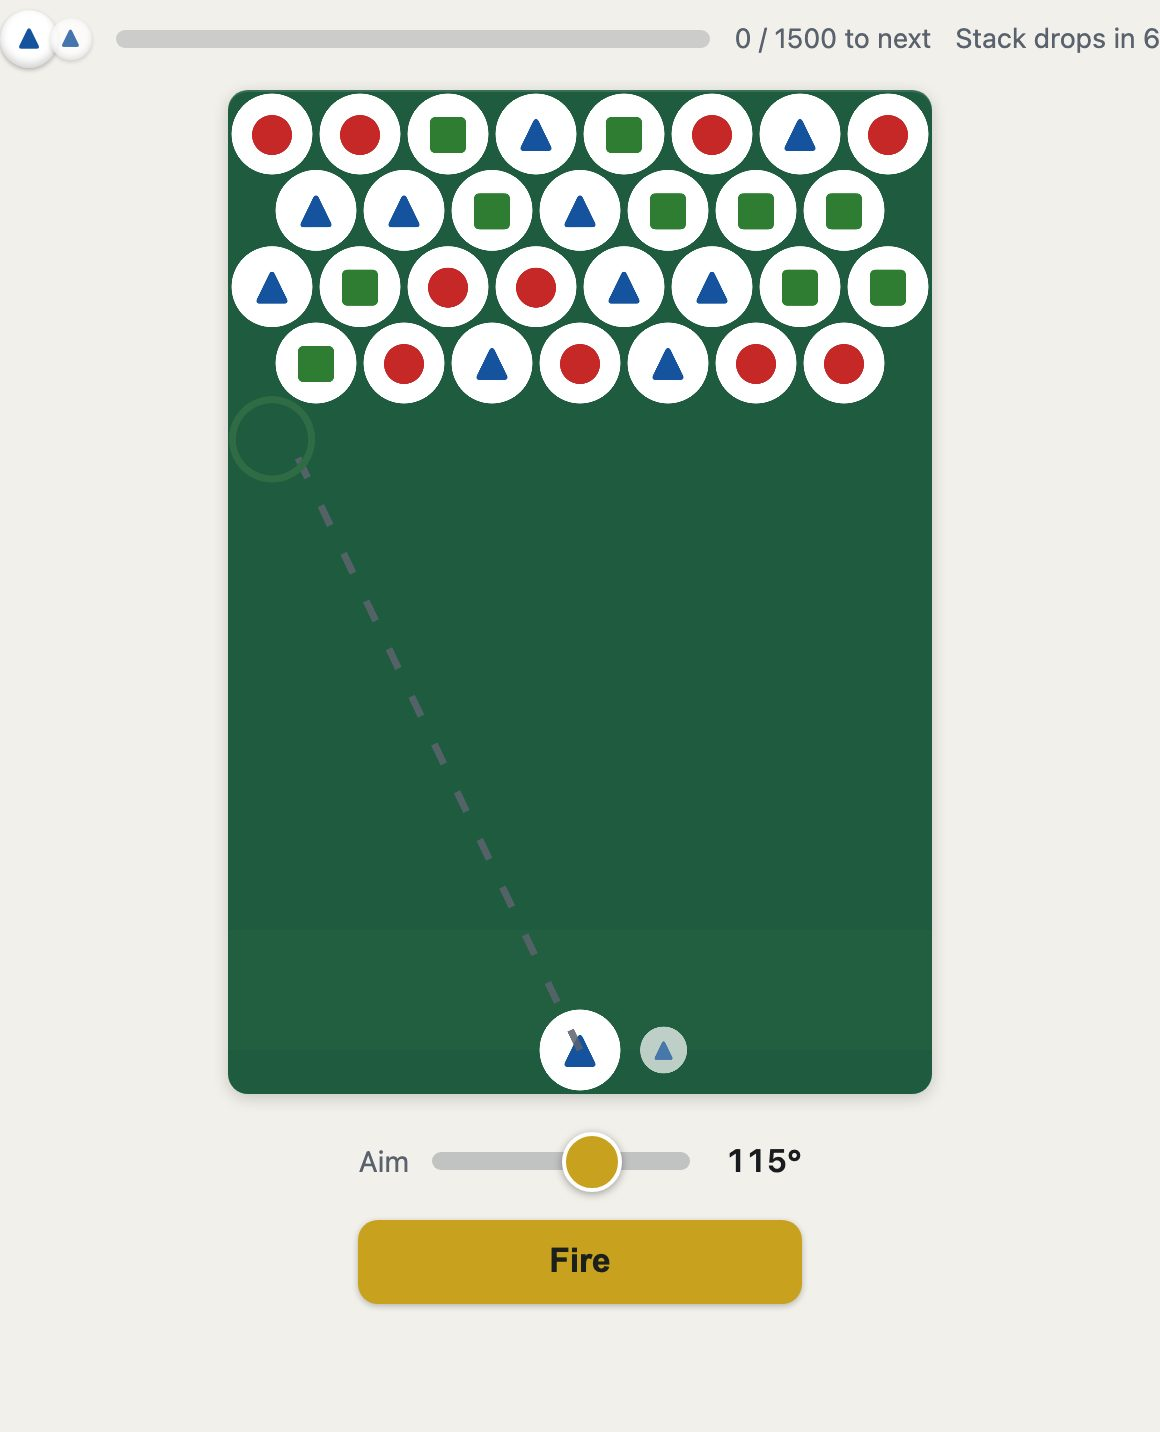
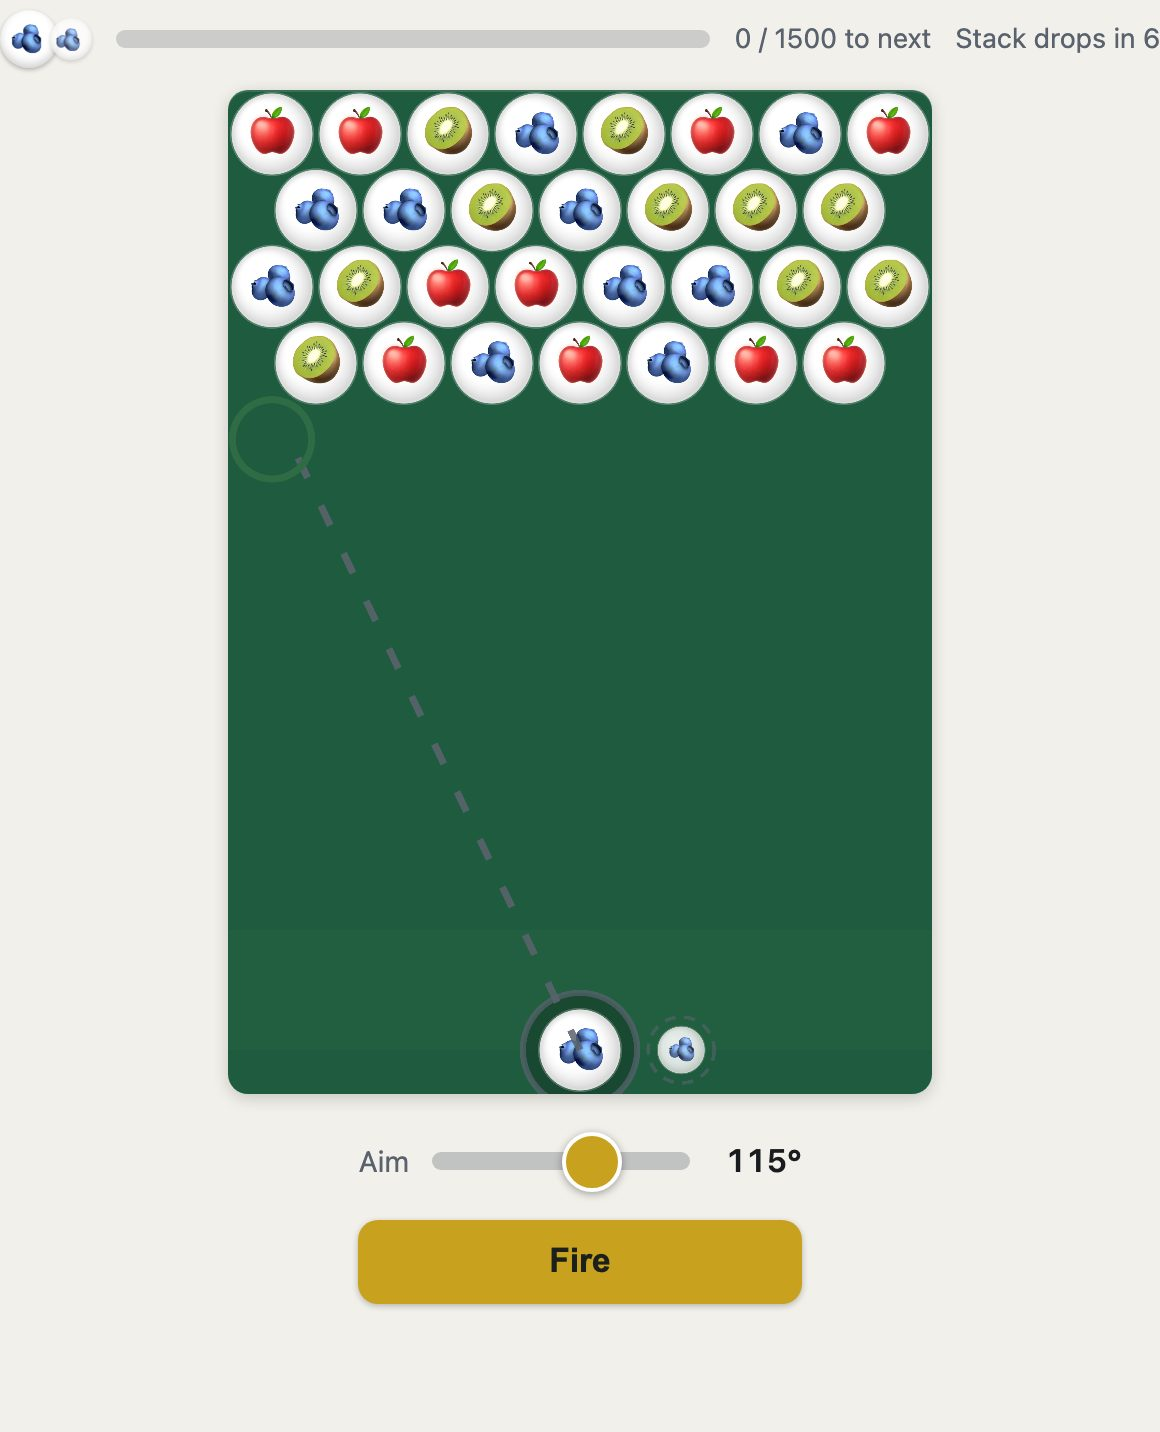
bubble: the pieces are fruit — six emoji in glass bubbles, a launcher ring, an on-deck ring (mock F phase 10a)
Owner, 2026-09-05 (mock F Q7): the fruit set. src/games/bubble/bubble-pieces.ts is the
table — apple, blueberries, kiwi, grapes, orange, lemon in the palette's colour order — and
a fruit carries its own shape as well as its own colour, so the colour-blind pairing the
old glyphs gave survives in the piece itself. The canvas draws a glass bubble (tint, rim,
highlight) with the fruit inside, a ring under the loaded piece and a dashed ring around
the on-deck one; the HUD chips show the fruit and name it for a screen reader; the how-to
names the fruit and its board shot is regenerated. No core change: colours are indices.

tests/bubble-pieces.test.ts holds the table as data; tests/bubble.spec.ts's wiring test
asserts the launcher names a fruit. Both engines green.

Claude-Session: https://claude.ai/code/session_01TWKEm65NEjxkHoS1WJuz2b

Changed region(s): [[0.1862, 0.0615, 0.8069, 0.3073], [0.4345, 0.676, 0.6207, 0.7682], [0.0, 0.0, 0.0621, 0.0307]]

diff --git a/src/games/bubble/bubble.ts b/src/games/bubble/bubble.ts
@@ -32,6 +32,7 @@ import {
   type VerifyResult,
 } from "./bubble-outcome.js";
 import { aimSettingRows } from "./bubble-aim-settings.js";
+import { EMOJI_FONT, pieceFor } from "./bubble-pieces.js";
 import { dayIndexUTC } from "../share.js";
 import {
   aimGuideEnabled,
@@ -65,8 +66,6 @@ declare global {
   }
 }
 
-const BUBBLE_GLYPH = ["●", "▲", "■", "◆", "★", "✚"];
-const BUBBLE_NAME = ["circle", "triangle", "square", "diamond", "star", "plus"];
 
 function el<K extends keyof HTMLElementTagNameMap>(
   tag: K,
@@ -435,28 +434,64 @@ export function bubbleModule(): GameModule {
     const r = geom.radius * 0.92 * scale;
     ctx.save();
     ctx.globalAlpha = alpha;
+    // A glass bubble: a faint tinted disc, a rim, and a highlight up-left — the
+    // fruit sits inside it (mock F phase 10; the owner's fruit set, Q7).
     ctx.beginPath();
     ctx.arc(x, y, r, 0, Math.PI * 2);
     ctx.fillStyle = p.surface;
     ctx.fill();
-    ctx.fillStyle = p.gems[color] ?? p.ink;
-    ctx.font = `${Math.round(geom.radius * 1.15 * scale)}px system-ui, sans-serif`;
+    const tint = ctx.createRadialGradient(x - r * 0.35, y - r * 0.4, r * 0.1, x, y, r);
+    tint.addColorStop(0, "rgba(255,255,255,0.32)");
+    tint.addColorStop(0.55, "rgba(255,255,255,0.04)");
+    tint.addColorStop(1, "rgba(0,0,0,0.18)");
+    ctx.fillStyle = tint;
+    ctx.fill();
+    ctx.lineWidth = Math.max(1, r * 0.08);
+    ctx.strokeStyle = "rgba(255,255,255,0.22)";
+    ctx.stroke();
+    ctx.font = `${Math.round(geom.radius * 1.12 * scale)}px ${EMOJI_FONT}`;
     ctx.textAlign = "center";
     ctx.textBaseline = "middle";
-    ctx.fillText(BUBBLE_GLYPH[color] ?? "●", x, y + geom.radius * 0.06 * scale);
+    ctx.fillStyle = p.gems[color] ?? p.ink; // the fallback glyph's colour; an emoji ignores it
+    ctx.fillText(pieceFor(color).glyph, x, y + geom.radius * 0.06 * scale);
     ctx.restore();
   };
 
-  // The on-deck ("next") bubble, drawn small and dimmed beside the launcher so
-  // the player can plan the shot after this one (a next-piece preview).
+  // The launcher: a ring the loaded piece sits in, so the shot's origin reads
+  // as a thing on the table rather than a bubble that happens to be low.
+  const drawLauncher = (ctx: CanvasRenderingContext2D, p: Palette, o: { x: number; y: number }): void => {
+    const r = geom.radius * 1.3;
+    ctx.save();
+    ctx.beginPath();
+    ctx.arc(o.x, o.y, r, 0, Math.PI * 2);
+    ctx.fillStyle = "rgba(0,0,0,0.22)";
+    ctx.fill();
+    ctx.lineWidth = Math.max(2, geom.radius * 0.14);
+    ctx.strokeStyle = p.inkMuted;
+    ctx.globalAlpha = 0.7;
+    ctx.stroke();
+    ctx.restore();
+  };
+
+  // The on-deck ("next") piece, drawn small in a dashed ring beside the launcher
+  // so the player can plan the shot after this one (a next-piece preview).
   const drawOnDeck = (
     ctx: CanvasRenderingContext2D,
     p: Palette,
     o: { x: number; y: number },
     color: number,
   ): void => {
-    const x = o.x + geom.diam * 0.95;
-    drawBubble(ctx, p, x, o.y, color, 0.58, 0.7);
+    const x = o.x + geom.diam * 1.15;
+    ctx.save();
+    ctx.beginPath();
+    ctx.arc(x, o.y, geom.radius * 0.75, 0, Math.PI * 2);
+    ctx.setLineDash([geom.radius * 0.25, geom.radius * 0.2]);
+    ctx.lineWidth = Math.max(1, geom.radius * 0.08);
+    ctx.strokeStyle = p.inkMuted;
+    ctx.globalAlpha = 0.6;
+    ctx.stroke();
+    ctx.restore();
+    drawBubble(ctx, p, x, o.y, color, 0.58, 0.85);
   };
 
   // A translucent danger band over the reserved bottom deadline rows (levels
@@ -504,6 +539,7 @@ export function bubbleModule(): GameModule {
 
     const o = origin(u);
     if (!u.over) {
+      drawLauncher(ctx, p, o);
       drawBubble(ctx, p, o.x, o.y, u.currentColor);
       drawOnDeck(ctx, p, o, u.nextColor);
     }
@@ -781,18 +817,18 @@ export function bubbleModule(): GameModule {
         {
           class: `bub-loaded bub-color-${color}`,
           role: "img",
-          "aria-label": `Launcher loaded: ${BUBBLE_NAME[color] ?? "bubble"}`,
+          "aria-label": `Launcher loaded: ${pieceFor(color).name}`,
         },
-        BUBBLE_GLYPH[color] ?? "●",
+        pieceFor(color).glyph,
       ),
       el(
         "span",
         {
           class: `bub-next bub-color-${nextColor}`,
           role: "img",
-          "aria-label": `Next up: ${BUBBLE_NAME[nextColor] ?? "bubble"}`,
+          "aria-label": `Next up: ${pieceFor(nextColor).name}`,
         },
-        BUBBLE_GLYPH[nextColor] ?? "●",
+        pieceFor(nextColor).glyph,
       ),
     );
 
@@ -983,7 +1019,7 @@ export function bubbleModule(): GameModule {
     if (prefersReducedMotion()) return;
     const layer = el("div", { class: "sol-cascade", "aria-hidden": "true" });
     for (let i = 0; i < 24; i += 1) {
-      const s = el("span", { class: `gem-${i % 6}` }, BUBBLE_GLYPH[i % 6]!);
+      const s = el("span", { class: `gem-${i % 6}` }, pieceFor(i % 6).glyph);
       s.style.left = `${(i * 4.15) % 100}%`;
       s.style.animationDelay = `${(i % 8) * 0.08}s`;
       layer.append(s);

diff --git a/src/games/bubble/bubble-howto.ts b/src/games/bubble/bubble-howto.ts
@@ -20,7 +20,7 @@ export const BUBBLE_GUIDE: Guide = {
         {
           kind: "shot",
           name: "bubble-board",
-          alt: "A staggered honeycomb of coloured, shaped bubbles on a green felt table, with a launcher at the bottom holding the loaded colour and a smaller on-deck colour beside it, a dotted aim line and landing ring, the frame's meters above showing the level, the score and the clock slot, and a HUD beside the board with a progress bar toward the next level and how many shots until the stack drops.",
+          alt: "A staggered honeycomb of glass bubbles, each holding a fruit, on a green felt table, with a launcher ring at the bottom holding the loaded fruit and a smaller on-deck fruit in a dashed ring beside it, a dotted aim line and landing ring, the frame's meters above showing the level, the score and the clock slot, and a HUD beside the board with a progress bar toward the next level and how many shots until the stack drops.",
           caption: "The board and launcher, the dotted aim guide, the level and score on the frame's meters, and the HUD: progress to the next level and shots until the next row drops in.",
         },
       ],
@@ -32,7 +32,7 @@ export const BUBBLE_GUIDE: Guide = {
       blocks: [
         {
           kind: "prose",
-          text: "Each bubble has both a colour and a shape (circle, triangle, square, diamond, star, plus), so they stay distinct however you see colour. The launcher shows two colours — the one loaded now and the next one on deck — so you can plan two shots ahead. Higher levels add more colours, so matches get harder to line up.",
+          text: "Each bubble holds a fruit — apple, blueberries, kiwi, grapes, orange, lemon — and a fruit has its own shape as well as its own colour, so they stay distinct however you see colour. The launcher shows two — the one loaded now and the next one on deck — so you can plan two shots ahead. Higher levels add more fruit, so matches get harder to line up.",
         },
       ],
     },

diff --git a/tests/bubble-pieces.test.ts b/tests/bubble-pieces.test.ts
@@ -1,0 +1,30 @@
+//! Bubble's pieces are fruit (owner, 2026-09-05 — mock F Q7, plan phase 10). Six
+//! colour indices, six fruit: each carries its own colour AND its own shape, so
+//! the pairing the shapes used to provide (a red circle, a blue triangle) is kept
+//! by the fruit themselves — an apple and a lemon differ however you see colour.
+//! The table is data, so it is tested as data: the count matches the palette's
+//! six gems, nothing repeats, and every name is a plain lowercase word a screen
+//! reader can say.
+
+import { describe, expect, it } from "vitest";
+import { BUBBLE_PIECES, pieceFor } from "../src/games/bubble/bubble-pieces.js";
+
+describe("Bubble's pieces", () => {
+  it("are the six fruit the owner chose, in the palette's colour order", () => {
+    expect(BUBBLE_PIECES.map((p) => p.glyph)).toEqual(["🍎", "🫐", "🥝", "🍇", "🍊", "🍋"]);
+    expect(BUBBLE_PIECES.map((p) => p.name)).toEqual(["apple", "blueberries", "kiwi", "grapes", "orange", "lemon"]);
+  });
+
+  it("never repeat a glyph or a name, and every name is one lowercase word", () => {
+    expect(new Set(BUBBLE_PIECES.map((p) => p.glyph)).size).toBe(BUBBLE_PIECES.length);
+    expect(new Set(BUBBLE_PIECES.map((p) => p.name)).size).toBe(BUBBLE_PIECES.length);
+    for (const p of BUBBLE_PIECES) expect(p.name).toMatch(/^[a-z]+$/);
+  });
+
+  it("pieceFor clamps an unknown colour to a named fallback rather than throwing", () => {
+    expect(pieceFor(0)).toEqual({ glyph: "🍎", name: "apple" });
+    expect(pieceFor(5).name).toBe("lemon");
+    expect(pieceFor(99)).toEqual({ glyph: "●", name: "bubble" });
+    expect(pieceFor(-1)).toEqual({ glyph: "●", name: "bubble" });
+  });
+});

diff --git a/src/games/bubble/bubble-pieces.ts b/src/games/bubble/bubble-pieces.ts
@@ -1,0 +1,35 @@
+//! Bubble's pieces: six fruit, one per colour index of the core's board.
+//!
+//! The owner chose the fruit set (2026-09-05, mock F Q7). A fruit carries its own
+//! colour and its own shape, so the colour-blind pairing the old glyphs gave
+//! (a red circle, a blue triangle) survives in the piece itself: an apple and a
+//! lemon differ however you see colour. The index order follows the palette's
+//! `--gem-0` … `--gem-5` (red, blue, green, purple, amber, teal), so the CSS chips
+//! and the canvas agree on which fruit is which.
+
+/** A piece: what is drawn, and what a screen reader says. */
+export interface Piece {
+  readonly glyph: string;
+  readonly name: string;
+}
+
+/** The set, in colour order. Data, tested as data (`tests/bubble-pieces.test.ts`). */
+export const BUBBLE_PIECES: readonly Piece[] = [
+  { glyph: "🍎", name: "apple" },
+  { glyph: "🫐", name: "blueberries" },
+  { glyph: "🥝", name: "kiwi" },
+  { glyph: "🍇", name: "grapes" },
+  { glyph: "🍊", name: "orange" },
+  { glyph: "🍋", name: "lemon" },
+];
+
+/** A colour the table does not know is drawn as a plain bubble, never thrown on. */
+const FALLBACK: Piece = { glyph: "●", name: "bubble" };
+
+/** The piece for a colour index. Pure. */
+export function pieceFor(color: number): Piece {
+  return BUBBLE_PIECES[color] ?? FALLBACK;
+}
+
+/** The font stack that renders colour emoji on a canvas across platforms. */
+export const EMOJI_FONT = '"Apple Color Emoji", "Segoe UI Emoji", "Noto Color Emoji", system-ui, sans-serif';

diff --git a/tests/bubble.spec.ts b/tests/bubble.spec.ts
@@ -22,6 +22,11 @@ test("the board renders a canvas, a launcher chip, an aim control and the HUD", 
   await ready(page);
   await expect(page.locator(".bub-canvas")).toHaveAttribute("aria-label", /bubbles left/i);
   await expect(page.locator(".bub-loaded")).toBeVisible();
+  // Mock F phase 10 (owner Q7, 2026-09-05): the pieces are fruit. The launcher chip
+  // names the loaded fruit for a screen reader and shows its emoji.
+  await expect(page.locator(".bub-loaded")).toHaveAttribute("aria-label", /^Launcher loaded: (apple|blueberries|kiwi|grapes|orange|lemon)$/);
+  await expect(page.locator(".bub-loaded")).toHaveText(/^[🍎🫐🥝🍇🍊🍋]$/u);
+  await expect(page.locator(".bub-next")).toHaveAttribute("aria-label", /^Next up: (apple|blueberries|kiwi|grapes|orange|lemon)$/);
   await expect(page.locator(".bub-aim")).toBeVisible();
   await expect(page.locator(".bub-fire")).toBeVisible();
   // Score and shots are the frame's meters; the game's own control bar and

diff --git a/styles.css b/styles.css
@@ -2144,6 +2144,10 @@ body:has(> .play-area > .gf) {
   border-radius: 50%;
   background: var(--surface);
   box-shadow: inset 0 -2px 4px rgb(0 0 0 / 18%), 0 1px 2px rgb(0 0 0 / 25%);
+  /* The piece is a fruit emoji (mock F phase 10): its own colours, so the chip's
+     `color` only ever paints the fallback glyph. */
+  font-variant-emoji: emoji;
+  font-size: 1.05em;
 }
 /* The on-deck ("next") colour — smaller + dimmer than the loaded chip, sitting
    just after it so it reads as the shot after this one. */
@@ -2159,6 +2163,7 @@ body:has(> .play-area > .gf) {
   box-shadow: inset 0 -1px 3px rgb(0 0 0 / 15%), 0 1px 2px rgb(0 0 0 / 18%);
   font-size: 0.85em;
   opacity: 0.78;
+  font-variant-emoji: emoji;
 }
 .bub-hud {
   display: flex;

diff --git a/plans/2026-09-04-plan-play-surface.md b/plans/2026-09-04-plan-play-surface.md
@@ -200,7 +200,18 @@ selectors. Done-when: every game on the rule, `docs/BUILDING-GAMES.md` §4b upda
 ### Phase 8: Furrow upright (Q5)
 ### Phase 9: Beats on the versus boards (Q11) — `src/beats.ts`, then one game per commit
 ### Phase 10: Pieces (Q7, Q8) — Bubble emoji + launcher; chess packs + presence
-Q7 DECIDED 2026-09-05: the fruit set (🍎🍋🫐🍇🍊🥝). Q8 open. Ready for its Done-when in Pass 2.
+Q7 DECIDED 2026-09-05: the fruit set. Q8 open — the chess half waits on it.
+
+**Phase 10a — Bubble's fruit (Pass 2, 2026-09-05).** `src/games/bubble/bubble-pieces.ts` is the
+table (glyph + name per colour index, in the palette's `--gem-N` order: 🍎 apple, 🫐
+blueberries, 🥝 kiwi, 🍇 grapes, 🍊 orange, 🍋 lemon); the canvas draws a glass bubble (tint,
+rim, highlight) with the fruit inside, a launcher ring under the loaded piece and a dashed
+on-deck ring; the HUD chips show the fruit and name it for a screen reader; the how-to copy
+names the fruit and its shots regenerate. Done-when: `tests/bubble-pieces.test.ts` (the table
+as data), the wiring test's launcher assertions (`tests/bubble.spec.ts`, structure) green on
+both engines; `assets/guide/bubble-*.jpg` regenerated; mock F v4 carries a Shipped capture
+of the board beside proposal 8. No core change: colours are indices, and the core never knew
+a shape.
 ### Phase 11: Loose Ends' curve (Q10)
 ### Phase 12: Music (Q9)
 Mahjong → Porch Light Nocturne DECIDED and landed 2026-09-05 (`tests/appearance.test.ts` pins
